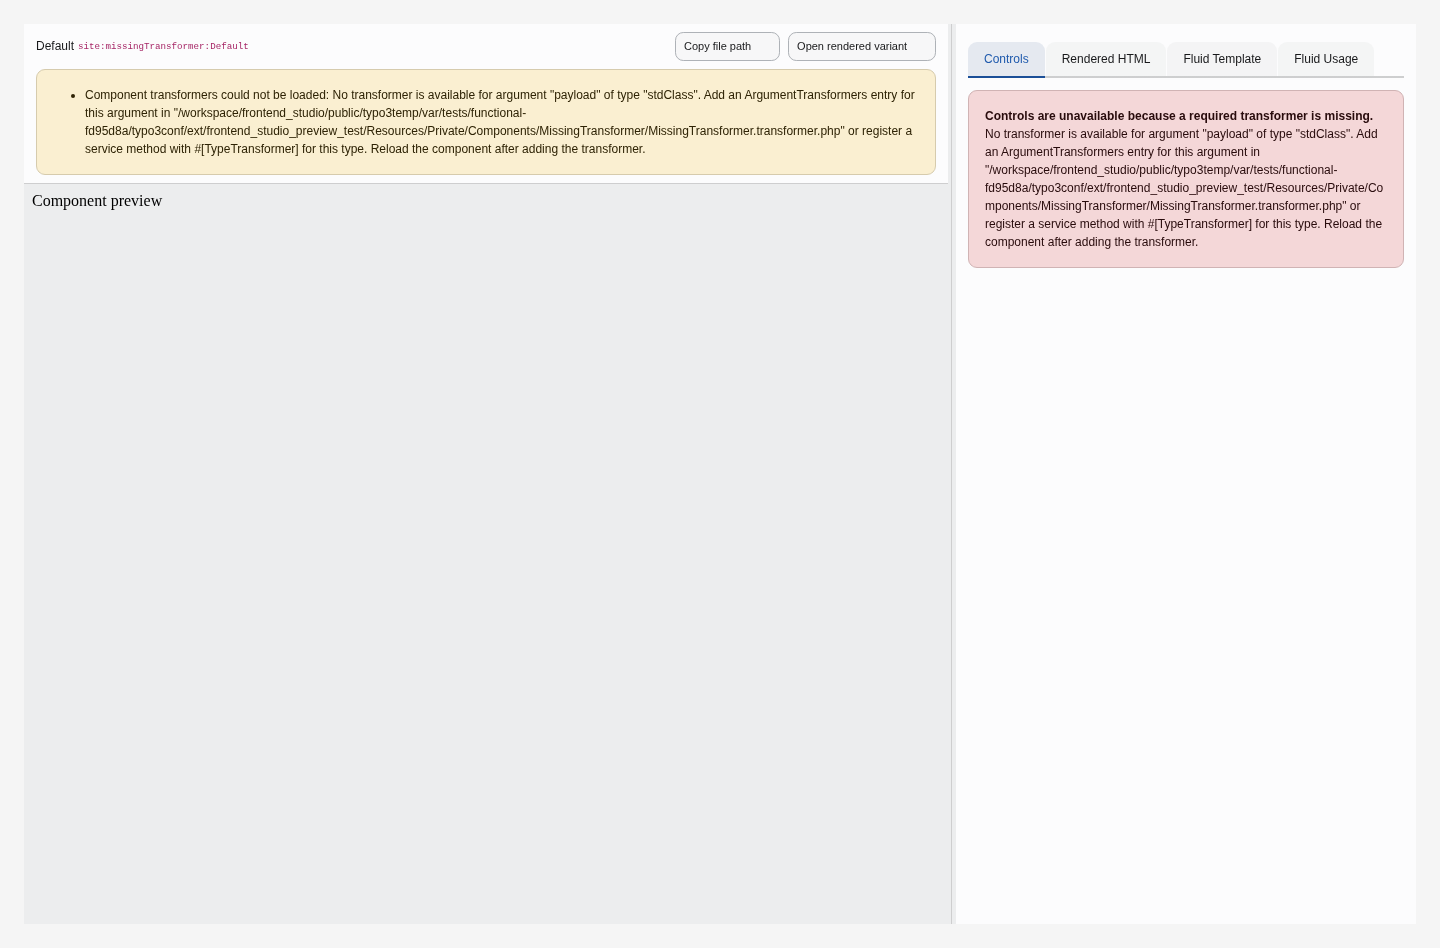
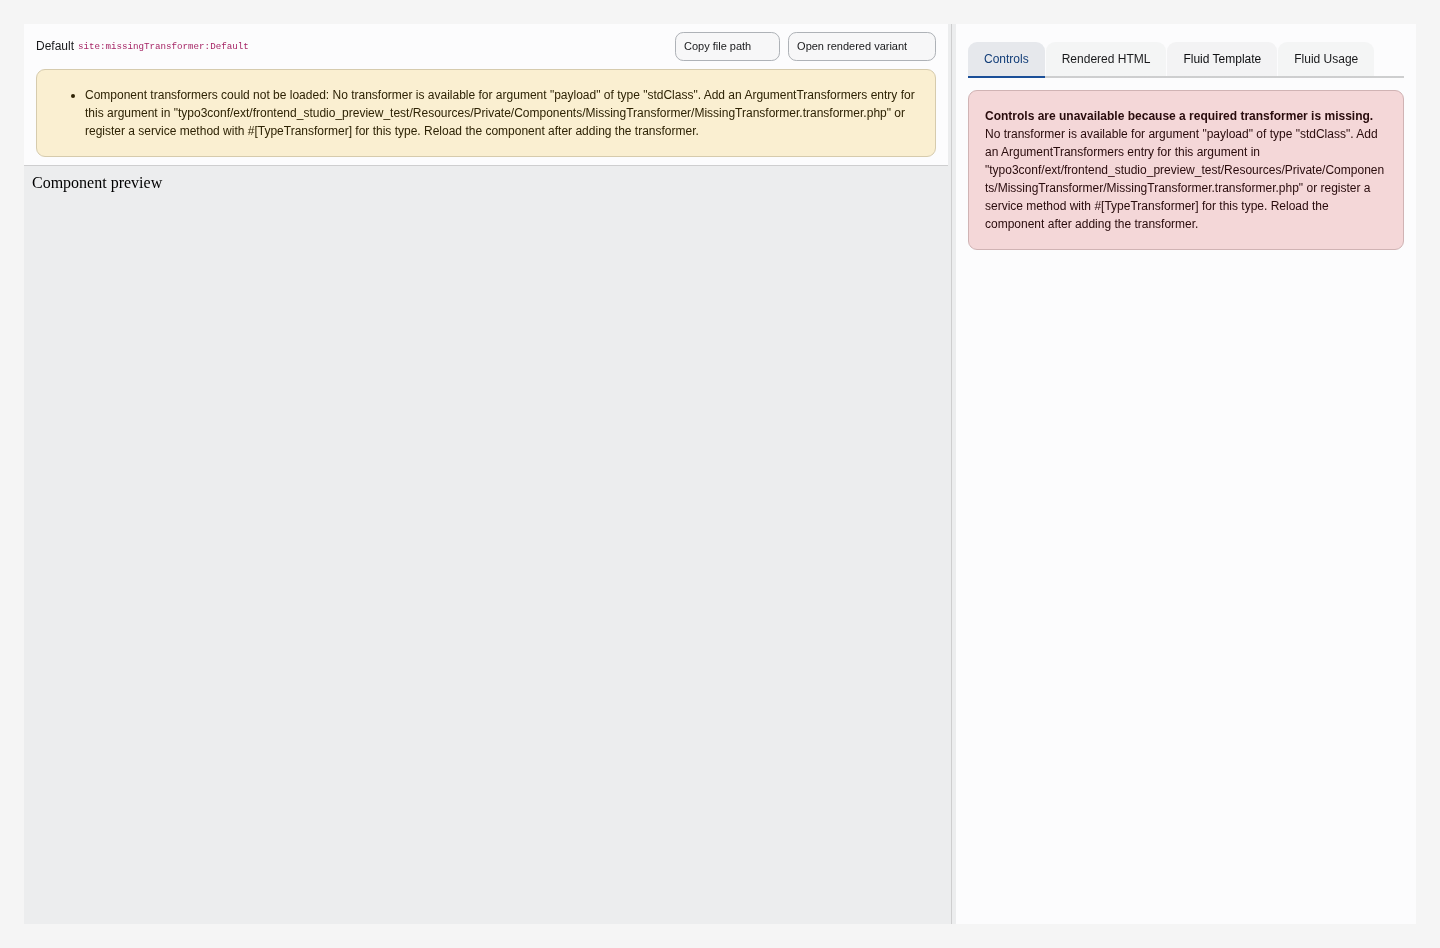
[BUGFIX] make preview fixture lookup independent and show relative paths

Changed region(s): [[0.0, 0.0918, 0.6562, 0.2141], [0.6562, 0.153, 0.9688, 0.3059]]

diff --git a/Tests/Unit/Service/ComponentMetadataProviderTest.php b/Tests/Unit/Service/ComponentMetadataProviderTest.php
@@ -158,7 +158,8 @@ PHP);
         self::assertNotNull($metadata);
         self::assertNotNull($metadata->missingTransformerError);
         self::assertStringContainsString('argument "payload" of type "stdClass"', $metadata->missingTransformerError);
-        self::assertStringContainsString(dirname($this->templatePath) . '/Card.transformer.php', $metadata->missingTransformerError);
+        self::assertStringContainsString('Card.transformer.php', $metadata->missingTransformerError);
+        self::assertStringNotContainsString('"' . dirname($this->templatePath), $metadata->missingTransformerError);
         self::assertStringContainsString('ArgumentTransformers', $metadata->missingTransformerError);
         self::assertStringContainsString('#[TypeTransformer]', $metadata->missingTransformerError);
         self::assertSame(['Component transformers could not be loaded: ' . $metadata->missingTransformerError], $metadata->errors);

diff --git a/Classes/Transformer/TransformersFactory.php b/Classes/Transformer/TransformersFactory.php
@@ -8,6 +8,7 @@ use DateTime;
 use DateTimeImmutable;
 use DateTimeInterface;
 use RuntimeException;
+use Symfony\Component\Filesystem\Path;
 use TYPO3\CMS\Core\Core\Environment;
 use TYPO3Fluid\Fluid\Core\Component\ComponentDefinition;
 use TYPO3Fluid\Fluid\Core\Component\ComponentDefinitionProviderInterface;
@@ -92,7 +93,7 @@ final readonly class TransformersFactory
             }
 
             if (!$this->typeTransformers->has($type)) {
-                throw new MissingTransformerException($argumentName, $type, $pdaFileName);
+                throw new MissingTransformerException($argumentName, $type, Path::makeRelative($pdaFileName, Environment::getProjectPath()));
             }
 
             $transformers[$argumentName] = $this->typeTransformers->get($type);

diff --git a/Tests/Unit/Transformer/TransformersFactoryTest.php b/Tests/Unit/Transformer/TransformersFactoryTest.php
@@ -46,7 +46,7 @@ final class TransformersFactoryTest extends UnitTestCase
         } catch (MissingTransformerException $missingTransformerException) {
             self::assertSame('title', $missingTransformerException->argumentName);
             self::assertSame(Stringable::class, $missingTransformerException->argumentType);
-            self::assertSame(substr($template, 0, -5) . '.transformer.php', $missingTransformerException->transformerFile);
+            self::assertSame('Tests/Functional/Fixtures/Extensions/preview_site_set/Resources/Private/Components/Card/Card.transformer.php', $missingTransformerException->transformerFile);
             self::assertSame(6790927084, $missingTransformerException->getCode());
         }
     }

diff --git a/Tests/Functional/Middleware/ComponentPreviewWithoutPageTest.php b/Tests/Functional/Middleware/ComponentPreviewWithoutPageTest.php
@@ -60,8 +60,8 @@ final class ComponentPreviewWithoutPageTest extends FunctionalTestCase
             ->fetchAssociative();
         self::assertFalse($pageRecord);
         $variants = $this->getListedVariants();
-        self::assertCount(2, $variants);
-        $variant = $variants[0];
+        $variant = array_find($variants, static fn(array $variant): bool => $variant['componentName'] === 'site:card' && $variant['variantName'] === 'Default');
+        self::assertIsArray($variant);
         self::assertSame('site:card', $variant['componentName']);
         self::assertSame('Acme\\Preview\\Components', $variant['phpNamespace']);
         self::assertSame('Default', $variant['variantName']);
